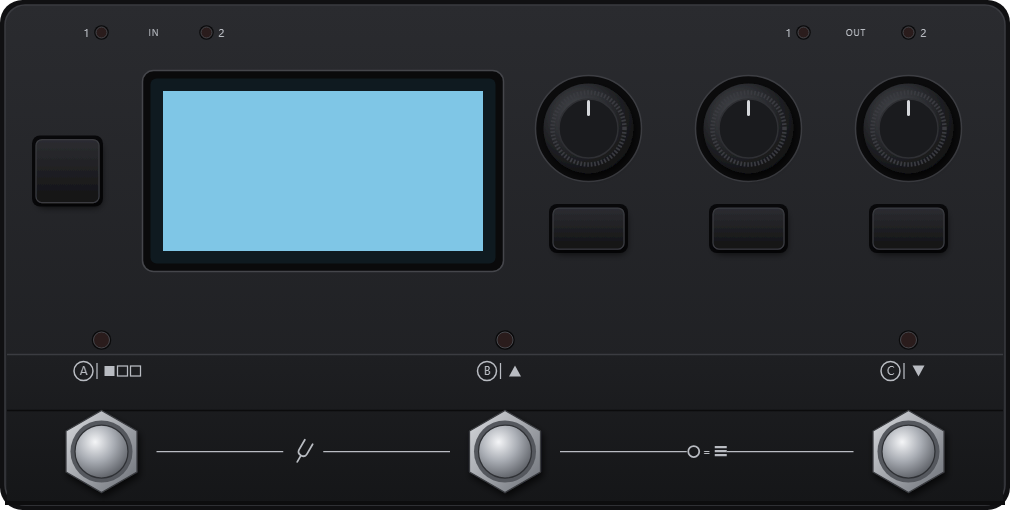
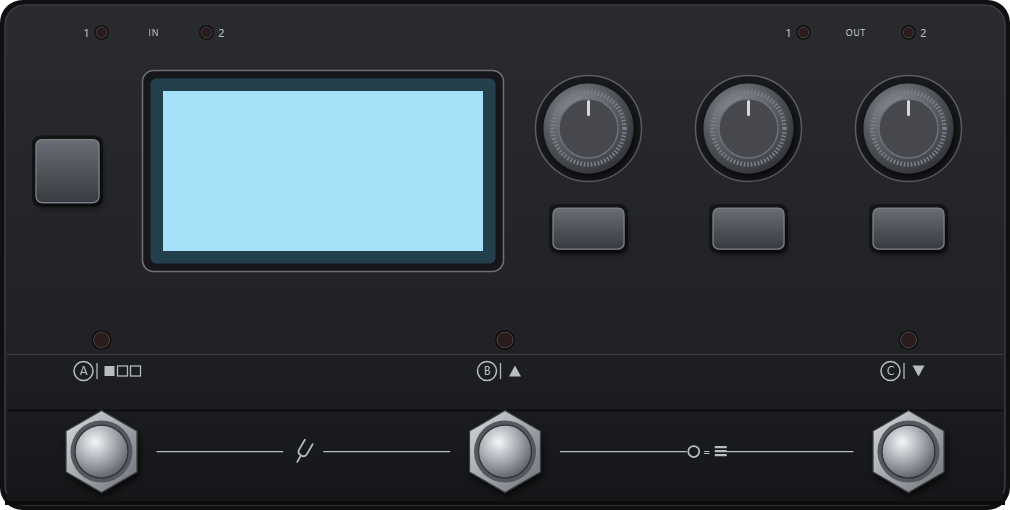
Lighten the knobs, buttons and display of the Dwarf skin
On the dark panel they read as holes. The user interface redraws the knob
cap over the picture, so it takes the new colours too.

diff --git a/devices/dwarf/skin/mkskin.py b/devices/dwarf/skin/mkskin.py
@@ -30,13 +30,13 @@ a('''<defs>
  <linearGradient id="ramp" x1="0" y1="0" x2="0" y2="1">
   <stop offset="0" stop-color="#1e1f22"/><stop offset="1" stop-color="#151618"/></linearGradient>
  <radialGradient id="knob" cx="0.4" cy="0.35" r="0.75">
-  <stop offset="0" stop-color="#4a4c52"/><stop offset="0.6" stop-color="#202124"/><stop offset="1" stop-color="#0c0c0d"/></radialGradient>
+  <stop offset="0" stop-color="#9a9ea6"/><stop offset="0.55" stop-color="#55585f"/><stop offset="1" stop-color="#2a2b30"/></radialGradient>
  <radialGradient id="chrome" cx="0.38" cy="0.32" r="0.8">
   <stop offset="0" stop-color="#f4f5f7"/><stop offset="0.45" stop-color="#a9adb4"/><stop offset="1" stop-color="#4b4e54"/></radialGradient>
  <linearGradient id="nut" x1="0" y1="0" x2="1" y2="1">
   <stop offset="0" stop-color="#d8dade"/><stop offset="1" stop-color="#6c7077"/></linearGradient>
  <linearGradient id="btn" x1="0" y1="0" x2="0" y2="1">
-  <stop offset="0" stop-color="#2c2d31"/><stop offset="1" stop-color="#121214"/></linearGradient>
+  <stop offset="0" stop-color="#6a6d75"/><stop offset="1" stop-color="#383a40"/></linearGradient>
  <filter id="sh" x="-30%" y="-30%" width="160%" height="160%"><feDropShadow dx="0.4" dy="0.8" stdDeviation="0.7" flood-color="#000" flood-opacity="0.7"/></filter>
 </defs>''')
 # enclosure: outer bezel, top panel, front ramp (fold at z=19.9 and 31.1)
@@ -48,20 +48,20 @@ a(f'<line x1="-99.6" y1="31.1" x2="99.6" y2="31.1" stroke="#0b0b0c" stroke-width
 a(f'<rect x="-100" y="49.2" width="200" height="0.8" fill="#0d0d0e"/>')
 # display: recess, then the glass (the LcdWidget paints the pixels on the LCD rect)
 wx0, wz0, wx1, wz1 = WIN
-a(f'<rect x="{wx0-0.6}" y="{wz0-0.6}" width="{wx1-wx0+1.2}" height="{wz1-wz0+1.2}" rx="2.2" fill="#0a0a0b" stroke="#45464b" stroke-width="0.3"/>')
-a(f'<rect x="{wx0+1}" y="{wz0+1}" width="{wx1-wx0-2}" height="{wz1-wz0-2}" rx="1.2" fill="#0f1a20"/>')
-a(f'<rect x="{LCD_CX-LCD_W/2}" y="{LCD_CZ-LCD_H/2}" width="{LCD_W}" height="{LCD_H}" fill="#7fc6e6"/>')
+a(f'<rect x="{wx0-0.6}" y="{wz0-0.6}" width="{wx1-wx0+1.2}" height="{wz1-wz0+1.2}" rx="2.2" fill="#16171a" stroke="#6e7076" stroke-width="0.3"/>')
+a(f'<rect x="{wx0+1}" y="{wz0+1}" width="{wx1-wx0-2}" height="{wz1-wz0-2}" rx="1.2" fill="#24404d"/>')
+a(f'<rect x="{LCD_CX-LCD_W/2}" y="{LCD_CZ-LCD_H/2}" width="{LCD_W}" height="{LCD_H}" fill="#a6e1fa"/>')
 # knobs: collar, knob with knurl ring and pointer
 for x in KNOBS_X:
-    a(f'<circle cx="{x}" cy="{KNOB_Z}" r="10.6" fill="#0b0b0c" stroke="#3d3e43" stroke-width="0.3"/>')
+    a(f'<circle cx="{x}" cy="{KNOB_Z}" r="10.6" fill="#18191c" stroke="#5c5e64" stroke-width="0.3"/>')
     a(f'<circle cx="{x}" cy="{KNOB_Z}" r="9.0" fill="url(#knob)" filter="url(#sh)"/>')
-    a(f'<circle cx="{x}" cy="{KNOB_Z}" r="7.2" fill="none" stroke="#3a3b40" stroke-width="0.9" stroke-dasharray="0.35 0.35"/>')
-    a(f'<circle cx="{x}" cy="{KNOB_Z}" r="5.9" fill="#1a1b1e" stroke="#2f3034" stroke-width="0.3"/>')
+    a(f'<circle cx="{x}" cy="{KNOB_Z}" r="7.2" fill="none" stroke="#7a7d84" stroke-width="0.9" stroke-dasharray="0.35 0.35"/>')
+    a(f'<circle cx="{x}" cy="{KNOB_Z}" r="5.9" fill="#46484e" stroke="#6c6f76" stroke-width="0.3"/>')
     a(f'<line x1="{x}" y1="{KNOB_Z-5.4}" x2="{x}" y2="{KNOB_Z-2.8}" stroke="#d6d8dc" stroke-width="0.6" stroke-linecap="round"/>')
 # buttons under the knobs (Subpage I, II, III) and Shift
 def button(cx, cz, w, h):
-    a(f'<rect x="{cx-w/2-0.5}" y="{cz-h/2-0.5}" width="{w+1}" height="{h+1}" rx="1.6" fill="#08080a"/>')
-    a(f'<rect x="{cx-w/2+0.3}" y="{cz-h/2+0.3}" width="{w-0.6}" height="{h-0.6}" rx="1.2" fill="url(#btn)" stroke="#3a3b40" stroke-width="0.25" filter="url(#sh)"/>')
+    a(f'<rect x="{cx-w/2-0.5}" y="{cz-h/2-0.5}" width="{w+1}" height="{h+1}" rx="1.6" fill="#141517"/>')
+    a(f'<rect x="{cx-w/2+0.3}" y="{cz-h/2+0.3}" width="{w-0.6}" height="{h-0.6}" rx="1.2" fill="url(#btn)" stroke="#7d8087" stroke-width="0.25" filter="url(#sh)"/>')
 for x in KNOBS_X:
     button(x, BTN_Z, BTN_W, BTN_H)
 button(*SHIFT)

diff --git a/host/gui/controls.cpp b/host/gui/controls.cpp
@@ -166,8 +166,9 @@ void EncoderWidget::paintEvent(QPaintEvent *)
             p.drawEllipse(c, R * 0.93, R * 0.93);
         }
 
-        p.setPen(QPen(QColor(0x2f, 0x30, 0x34), R * 0.03));
-        p.setBrush(m_pressed ? QColor(0x10, 0x10, 0x12) : QColor(0x1a, 0x1b, 0x1e));
+        /* the colours of the cap in mkskin.py */
+        p.setPen(QPen(QColor(0x6c, 0x6f, 0x76), R * 0.03));
+        p.setBrush(m_pressed ? QColor(0x2a, 0x2b, 0x30) : QColor(0x46, 0x48, 0x4e));
         p.drawEllipse(c, R * 0.557, R * 0.557);
 
         const QPointF u(std::cos(a), std::sin(a));
